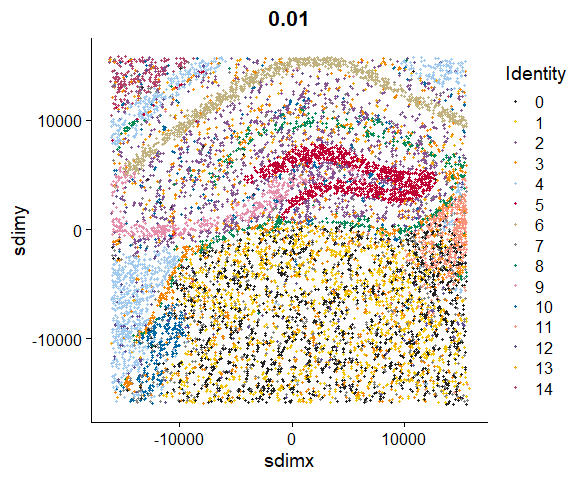
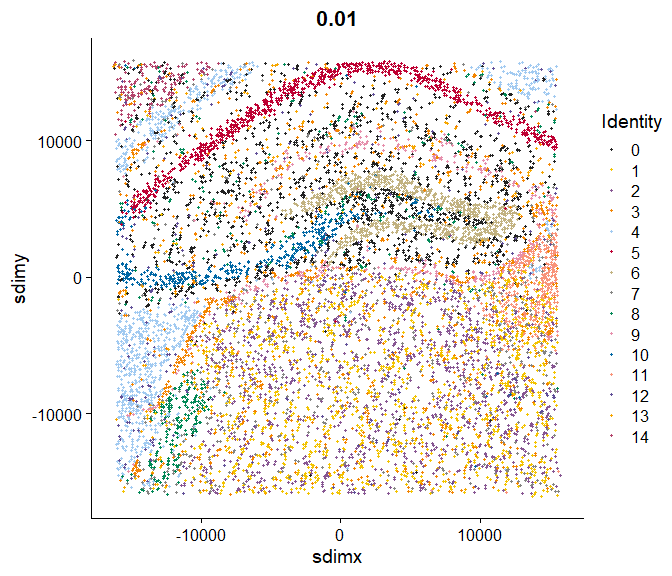
Update vignettes

diff --git a/docs/banksy.md b/docs/banksy.md
@@ -1,6 +1,6 @@
 Running BANKSY with Seurat
 ================
-Compiled: August 31, 2022
+Compiled: July 20, 2023
 
 -   <a href="#introduction" id="toc-introduction">Introduction</a>
 -   <a href="#overview" id="toc-overview">Overview</a>
@@ -134,9 +134,9 @@ Call `?RunBanksy` for more details on function parameters.
 
 ``` r
 # Run BANKSY
-ss.hippo <- RunBanksy(ss.hippo, lambda = 0.3, verbose=TRUE, 
+ss.hippo <- RunBanksy(ss.hippo, lambda = 0.2, verbose=TRUE, 
                       assay = 'Spatial', slot = 'data', features = 'variable',
-                      k_geom = 10)
+                      k_geom = 15)
 ss.hippo
 ```
 
@@ -155,7 +155,7 @@ scale the data and run dimensionality reduction with PCA and UMAP:
 
 ``` r
 # Run PCA and UMAP
-ss.hippo <- RunPCA(ss.hippo, assay = 'BANKSY', features = rownames(ss.hippo), npcs = 50)
+ss.hippo <- RunPCA(ss.hippo, assay = 'BANKSY', features = rownames(ss.hippo), npcs = 30)
 ss.hippo <- RunUMAP(ss.hippo, dims = 1:30)
 ```
 
@@ -170,19 +170,19 @@ ss.hippo <- FindClusters(ss.hippo, resolution = 0.5)
     ## Modularity Optimizer version 1.3.0 by Ludo Waltman and Nees Jan van Eck
     ## 
     ## Number of nodes: 10000
-    ## Number of edges: 348389
+    ## Number of edges: 366094
     ## 
     ## Running Louvain algorithm...
-    ## Maximum modularity in 10 random starts: 0.9019
-    ## Number of communities: 12
-    ## Elapsed time: 1 seconds
+    ## Maximum modularity in 10 random starts: 0.9035
+    ## Number of communities: 13
+    ## Elapsed time: 2 seconds
 
 Visualize the UMAP and Spatial plot:
 
 ``` r
 # Viz
 grid.arrange(
-    DimPlot(ss.hippo, pt.size = 0.25),
+    DimPlot(ss.hippo, pt.size = 0.25, label = TRUE, label.size = 3, repel = TRUE),
     SpatialDimPlot(ss.hippo, stroke = NA, label = TRUE, label.size = 3, 
                    repel = TRUE, alpha = 0.5, pt.size.factor = 2),
     ncol = 2
@@ -197,22 +197,22 @@ find differentially expressed genes between the CA1 and CA3 regions.
 ``` r
 # Find markers
 DefaultAssay(ss.hippo) <- 'Spatial'
-markers <- FindMarkers(ss.hippo, ident.1 = 4, ident.2 = 8, only.pos = F, 
+markers <- FindMarkers(ss.hippo, ident.1 = 4, ident.2 = 9, only.pos = F, 
                        logfc.threshold = 1, min.pct = 0.5)
 markers <- markers[markers$p_val_adj < 0.01,]
 markers
 ```
 
     ##               p_val avg_log2FC pct.1 pct.2    p_val_adj
-    ## SNAP25 1.632615e-44  -1.220761 0.662 0.818 3.798115e-40
-    ## CHGB   5.256876e-41  -1.811216 0.442 0.688 1.222960e-36
-    ## ATP2B1 2.396039e-25   1.231292 0.648 0.461 5.574144e-21
-    ## STMN2  8.820624e-23  -1.225031 0.341 0.565 2.052030e-18
-    ## SYN2   1.923082e-21  -1.387140 0.339 0.557 4.473858e-17
-    ## CPLX2  5.480717e-20  -1.017802 0.290 0.516 1.275034e-15
-    ## PRKCB  3.093593e-19   1.205415 0.555 0.337 7.196936e-15
-    ## PCP4   3.510875e-18  -1.138038 0.385 0.580 8.167700e-14
-    ## DDN    1.749830e-14   1.221791 0.595 0.398 4.070805e-10
+    ## SNAP25 3.381910e-46  -1.207905 0.657 0.824 7.867674e-42
+    ## CHGB   1.791703e-44  -1.873680 0.437 0.698 4.168217e-40
+    ## STMN2  6.651615e-25  -1.263710 0.334 0.576 1.547432e-20
+    ## SYN2   6.404044e-23  -1.380049 0.334 0.566 1.489837e-18
+    ## ATP2B1 1.298411e-21   1.150366 0.636 0.479 3.020623e-17
+    ## CPLX2  3.698909e-21  -1.048808 0.287 0.523 8.605141e-17
+    ## PCP4   4.083264e-18  -1.058147 0.379 0.578 9.499305e-14
+    ## PRKCB  5.548792e-18   1.224930 0.547 0.341 1.290871e-13
+    ## DDN    4.230865e-14   1.290755 0.589 0.396 9.842685e-10
 
 ``` r
 genes <- c('ATP2B1', 'CHGB')
@@ -281,7 +281,7 @@ respectively:
 
 ``` r
 # Run BANKSY
-vf.hippo <- RunBanksy(vf.hippo, lambda = 0.3, dimx = 'sdimx', dimy = 'sdimy', 
+vf.hippo <- RunBanksy(vf.hippo, lambda = 0.2, dimx = 'sdimx', dimy = 'sdimy', 
                       assay = 'RNA', slot = 'data', features = 'all', k_geom = 10)
 ```
 
@@ -289,26 +289,26 @@ Scale the BANKSY matrix and run PCA:
 
 ``` r
 # PCA
-vf.hippo <- RunPCA(vf.hippo, assay = 'BANKSY', features = rownames(vf.hippo), npcs = 50)
+vf.hippo <- RunPCA(vf.hippo, assay = 'BANKSY', features = rownames(vf.hippo), npcs = 20)
 ```
 
 Find BANKSY clusters:
 
 ``` r
 # Cluster
-vf.hippo <- FindNeighbors(vf.hippo, dims = 1:30)
+vf.hippo <- FindNeighbors(vf.hippo, dims = 1:20)
 vf.hippo <- FindClusters(vf.hippo, resolution = 0.5)
 ```
 
     ## Modularity Optimizer version 1.3.0 by Ludo Waltman and Nees Jan van Eck
     ## 
     ## Number of nodes: 10205
-    ## Number of edges: 501038
+    ## Number of edges: 447627
     ## 
     ## Running Louvain algorithm...
-    ## Maximum modularity in 10 random starts: 0.9083
+    ## Maximum modularity in 10 random starts: 0.9108
     ## Number of communities: 15
-    ## Elapsed time: 1 seconds
+    ## Elapsed time: 2 seconds
 
 Visualise BANKSY clusters in spatial dimensions:
 
@@ -318,6 +318,12 @@ FeatureScatter(vf.hippo, 'sdimx', 'sdimy', cols = mypal, pt.size = 0.75)
 ```
 
 <img src="banksy_files/figure-gfm/hippo_viz-1.png" style="display: block; margin: auto;" />
+
+``` r
+FeatureScatter(vf.hippo, 'sdimx', 'sdimy', cols = mypal, pt.size = 0.1) + facet_wrap(~ colors)
+```
+
+<img src="banksy_files/figure-gfm/hippo_viz-2.png" style="display: block; margin: auto;" />
 
 Find markers and visualise them. Here, we do so for a cluster defined by
 a thin layer of cells expressing Gfap. We also write a simple function
@@ -358,7 +364,7 @@ For more information, visit <https://github.com/prabhakarlab/Banksy>.
 Vignette runtime
 </summary>
 
-    ## Time difference of 1.752437 mins
+    ## Time difference of 2.153743 mins
 
 </details>
 <details>
@@ -385,90 +391,89 @@ sessionInfo()
     ## [1] stats     graphics  grDevices utils     datasets  methods   base     
     ## 
     ## other attached packages:
-    ##  [1] pals_1.7                 gridExtra_2.3            ggplot2_3.3.6           
-    ##  [4] SeuratWrappers_0.3.0     ssHippo.SeuratData_3.1.4 SeuratData_0.2.2        
-    ##  [7] sp_1.5-0                 SeuratObject_4.1.0       Seurat_4.1.1            
-    ## [10] Banksy_0.1.3            
+    ##  [1] pals_1.7                 gridExtra_2.3            ggplot2_3.4.0           
+    ##  [4] SeuratWrappers_0.3.0     ssHippo.SeuratData_3.1.4 pbmc3k.SeuratData_3.1.4 
+    ##  [7] SeuratData_0.2.2         SeuratObject_4.1.3       Seurat_4.3.0            
+    ## [10] Banksy_0.1.5            
     ## 
     ## loaded via a namespace (and not attached):
-    ##   [1] utf8_1.2.2                  reticulate_1.25            
-    ##   [3] R.utils_2.12.0              tidyselect_1.1.2           
-    ##   [5] htmlwidgets_1.5.4           grid_4.2.1                 
-    ##   [7] Rtsne_0.16                  munsell_0.5.0              
-    ##   [9] codetools_0.2-18            ica_1.0-3                  
-    ##  [11] future_1.27.0               miniUI_0.1.1.1             
-    ##  [13] withr_2.5.0                 spatstat.random_2.2-0      
-    ##  [15] colorspace_2.0-3            progressr_0.10.1           
-    ##  [17] Biobase_2.56.0              highr_0.9                  
-    ##  [19] knitr_1.39                  ggalluvial_0.12.3          
-    ##  [21] rstudioapi_0.13             stats4_4.2.1               
-    ##  [23] ROCR_1.0-11                 tensor_1.5                 
-    ##  [25] listenv_0.8.0               labeling_0.4.2             
-    ##  [27] MatrixGenerics_1.8.1        GenomeInfoDbData_1.2.8     
-    ##  [29] polyclip_1.10-0             farver_2.1.1               
-    ##  [31] parallelly_1.32.1           Matrix.utils_0.9.8         
-    ##  [33] vctrs_0.4.1                 generics_0.1.3             
-    ##  [35] xfun_0.31                   R6_2.5.1                   
-    ##  [37] doParallel_1.0.17           GenomeInfoDb_1.32.2        
-    ##  [39] clue_0.3-61                 rsvd_1.0.5                 
-    ##  [41] bitops_1.0-7                spatstat.utils_2.3-1       
-    ##  [43] DelayedArray_0.22.0         assertthat_0.2.1           
-    ##  [45] promises_1.2.0.1            scales_1.2.0               
-    ##  [47] rgeos_0.5-9                 gtable_0.3.0               
-    ##  [49] globals_0.15.1              goftest_1.2-3              
-    ##  [51] rlang_1.0.4                 GlobalOptions_0.1.2        
-    ##  [53] splines_4.2.1               lazyeval_0.2.2             
-    ##  [55] dichromat_2.0-0.1           spatstat.geom_2.4-0        
-    ##  [57] BiocManager_1.30.18         yaml_2.3.5                 
-    ##  [59] reshape2_1.4.4              abind_1.4-5                
-    ##  [61] httpuv_1.6.5                tools_4.2.1                
-    ##  [63] sccore_1.0.1                ellipsis_0.3.2             
-    ##  [65] spatstat.core_2.4-4         RColorBrewer_1.1-3         
-    ##  [67] BiocGenerics_0.42.0         ggridges_0.5.3             
-    ##  [69] Rcpp_1.0.9                  plyr_1.8.7                 
-    ##  [71] zlibbioc_1.42.0             purrr_0.3.4                
-    ##  [73] RCurl_1.98-1.7              rpart_4.1.16               
-    ##  [75] dbscan_1.1-10               deldir_1.0-6               
-    ##  [77] pbapply_1.5-0               GetoptLong_1.0.5           
-    ##  [79] cowplot_1.1.1               S4Vectors_0.34.0           
-    ##  [81] zoo_1.8-10                  SummarizedExperiment_1.26.1
-    ##  [83] grr_0.9.5                   ggrepel_0.9.1              
-    ##  [85] cluster_2.1.3               magrittr_2.0.3             
-    ##  [87] RSpectra_0.16-1             data.table_1.14.2          
-    ##  [89] scattermore_0.8             circlize_0.4.15            
-    ##  [91] lmtest_0.9-40               RANN_2.6.1                 
-    ##  [93] fitdistrplus_1.1-8          matrixStats_0.62.0         
-    ##  [95] patchwork_1.1.1             mime_0.12                  
-    ##  [97] evaluate_0.15               xtable_1.8-4               
-    ##  [99] mclust_5.4.10               IRanges_2.30.0             
-    ## [101] shape_1.4.6                 compiler_4.2.1             
-    ## [103] tibble_3.1.8                maps_3.4.0                 
-    ## [105] KernSmooth_2.23-20          crayon_1.5.1               
-    ## [107] R.oo_1.25.0                 htmltools_0.5.3            
-    ## [109] mgcv_1.8-40                 later_1.3.0                
-    ## [111] tidyr_1.2.0                 DBI_1.1.3                  
-    ## [113] ComplexHeatmap_2.12.0       MASS_7.3-57                
-    ## [115] rappdirs_0.3.3              Matrix_1.4-1               
-    ## [117] cli_3.3.0                   R.methodsS3_1.8.2          
-    ## [119] parallel_4.2.1              RcppHungarian_0.2          
-    ## [121] igraph_1.3.4                GenomicRanges_1.48.0       
-    ## [123] pkgconfig_2.0.3             plotly_4.10.0              
-    ## [125] spatstat.sparse_2.1-1       foreach_1.5.2              
-    ## [127] XVector_0.36.0              leidenAlg_1.0.3            
-    ## [129] stringr_1.4.0               digest_0.6.29              
-    ## [131] sctransform_0.3.3           RcppAnnoy_0.0.19           
-    ## [133] spatstat.data_2.2-0         rmarkdown_2.14             
-    ## [135] leiden_0.4.2                uwot_0.1.11                
-    ## [137] shiny_1.7.2                 rjson_0.2.21               
-    ## [139] lifecycle_1.0.1             nlme_3.1-157               
-    ## [141] jsonlite_1.8.0              mapproj_1.2.8              
-    ## [143] limma_3.52.2                viridisLite_0.4.0          
-    ## [145] fansi_1.0.3                 pillar_1.8.0               
-    ## [147] lattice_0.20-45             fastmap_1.1.0              
-    ## [149] httr_1.4.3                  survival_3.3-1             
-    ## [151] glue_1.6.2                  remotes_2.4.2              
-    ## [153] png_0.1-7                   iterators_1.0.14           
-    ## [155] stringi_1.7.8               dplyr_1.0.9                
-    ## [157] irlba_2.3.5                 future.apply_1.9.0
+    ##   [1] utf8_1.2.2                  spatstat.explore_3.0-5     
+    ##   [3] reticulate_1.27             R.utils_2.12.2             
+    ##   [5] tidyselect_1.2.0            htmlwidgets_1.6.0          
+    ##   [7] grid_4.2.1                  Rtsne_0.16                 
+    ##   [9] munsell_0.5.0               codetools_0.2-18           
+    ##  [11] ica_1.0-3                   future_1.30.0              
+    ##  [13] miniUI_0.1.1.1              withr_2.5.0                
+    ##  [15] spatstat.random_3.0-1       colorspace_2.0-3           
+    ##  [17] progressr_0.12.0            Biobase_2.58.0             
+    ##  [19] highr_0.10                  knitr_1.41                 
+    ##  [21] ggalluvial_0.12.3           rstudioapi_0.14            
+    ##  [23] stats4_4.2.1                ROCR_1.0-11                
+    ##  [25] tensor_1.5                  listenv_0.9.0              
+    ##  [27] MatrixGenerics_1.10.0       labeling_0.4.2             
+    ##  [29] GenomeInfoDbData_1.2.9      polyclip_1.10-4            
+    ##  [31] farver_2.1.1                parallelly_1.33.0          
+    ##  [33] vctrs_0.5.1                 generics_0.1.3             
+    ##  [35] xfun_0.36                   R6_2.5.1                   
+    ##  [37] doParallel_1.0.17           GenomeInfoDb_1.34.4        
+    ##  [39] clue_0.3-62                 rsvd_1.0.5                 
+    ##  [41] bitops_1.0-7                spatstat.utils_3.0-1       
+    ##  [43] DelayedArray_0.24.0         assertthat_0.2.1           
+    ##  [45] promises_1.2.0.1            scales_1.2.1               
+    ##  [47] gtable_0.3.1                globals_0.16.2             
+    ##  [49] goftest_1.2-3               rlang_1.1.1                
+    ##  [51] GlobalOptions_0.1.2         splines_4.2.1              
+    ##  [53] lazyeval_0.2.2              dichromat_2.0-0.1          
+    ##  [55] spatstat.geom_3.0-3         BiocManager_1.30.19        
+    ##  [57] yaml_2.3.6                  reshape2_1.4.4             
+    ##  [59] abind_1.4-5                 httpuv_1.6.6               
+    ##  [61] tools_4.2.1                 sccore_1.0.2               
+    ##  [63] ellipsis_0.3.2              RColorBrewer_1.1-3         
+    ##  [65] BiocGenerics_0.44.0         ggridges_0.5.4             
+    ##  [67] Rcpp_1.0.9                  plyr_1.8.8                 
+    ##  [69] progress_1.2.2              zlibbioc_1.44.0            
+    ##  [71] purrr_0.3.5                 RCurl_1.98-1.9             
+    ##  [73] prettyunits_1.1.1           dbscan_1.1-11              
+    ##  [75] deldir_1.0-6                pbapply_1.7-0              
+    ##  [77] GetoptLong_1.0.5            cowplot_1.1.1              
+    ##  [79] S4Vectors_0.36.0            zoo_1.8-11                 
+    ##  [81] SummarizedExperiment_1.28.0 ggrepel_0.9.2              
+    ##  [83] cluster_2.1.4               magrittr_2.0.3             
+    ##  [85] data.table_1.14.6           scattermore_0.8            
+    ##  [87] circlize_0.4.15             lmtest_0.9-40              
+    ##  [89] RANN_2.6.1                  fitdistrplus_1.1-8         
+    ##  [91] matrixStats_0.62.0          hms_1.1.2                  
+    ##  [93] patchwork_1.1.2             mime_0.12                  
+    ##  [95] evaluate_0.19               xtable_1.8-4               
+    ##  [97] mclust_6.0.0                IRanges_2.32.0             
+    ##  [99] shape_1.4.6                 compiler_4.2.1             
+    ## [101] tibble_3.1.8                maps_3.4.1                 
+    ## [103] KernSmooth_2.23-20          crayon_1.5.2               
+    ## [105] R.oo_1.25.0                 htmltools_0.5.4            
+    ## [107] later_1.3.0                 tidyr_1.2.1                
+    ## [109] DBI_1.1.3                   ComplexHeatmap_2.14.0      
+    ## [111] MASS_7.3-58.1               rappdirs_0.3.3             
+    ## [113] Matrix_1.5-3                cli_3.4.1                  
+    ## [115] R.methodsS3_1.8.2           parallel_4.2.1             
+    ## [117] RcppHungarian_0.2           igraph_1.3.5               
+    ## [119] GenomicRanges_1.50.1        pkgconfig_2.0.3            
+    ## [121] sp_1.5-1                    plotly_4.10.1              
+    ## [123] spatstat.sparse_3.0-0       foreach_1.5.2              
+    ## [125] XVector_0.38.0              leidenAlg_1.1.0            
+    ## [127] stringr_1.5.0               digest_0.6.30              
+    ## [129] sctransform_0.3.5           RcppAnnoy_0.0.20           
+    ## [131] spatstat.data_3.0-0         rmarkdown_2.19             
+    ## [133] leiden_0.4.3                uwot_0.1.14                
+    ## [135] shiny_1.7.4                 rjson_0.2.21               
+    ## [137] lifecycle_1.0.3             nlme_3.1-160               
+    ## [139] jsonlite_1.8.3              mapproj_1.2.9              
+    ## [141] viridisLite_0.4.1           limma_3.54.0               
+    ## [143] fansi_1.0.3                 pillar_1.8.1               
+    ## [145] lattice_0.20-45             fastmap_1.1.0              
+    ## [147] httr_1.4.4                  survival_3.4-0             
+    ## [149] glue_1.6.2                  remotes_2.4.2              
+    ## [151] png_0.1-7                   iterators_1.0.14           
+    ## [153] stringi_1.7.8               dplyr_1.0.10               
+    ## [155] irlba_2.3.5.1               future.apply_1.10.0
 
 </details>
